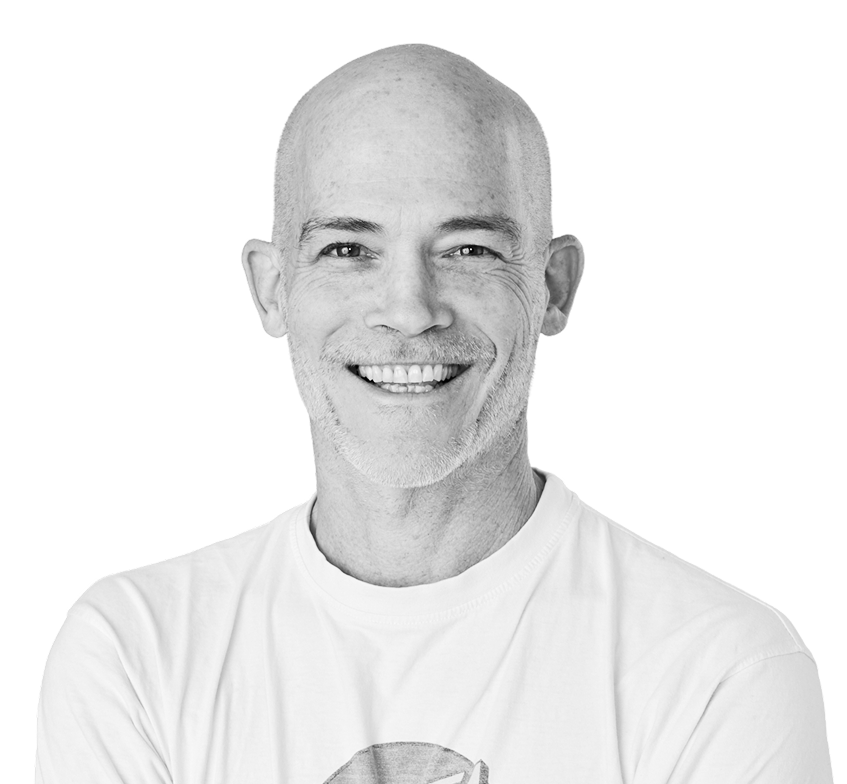
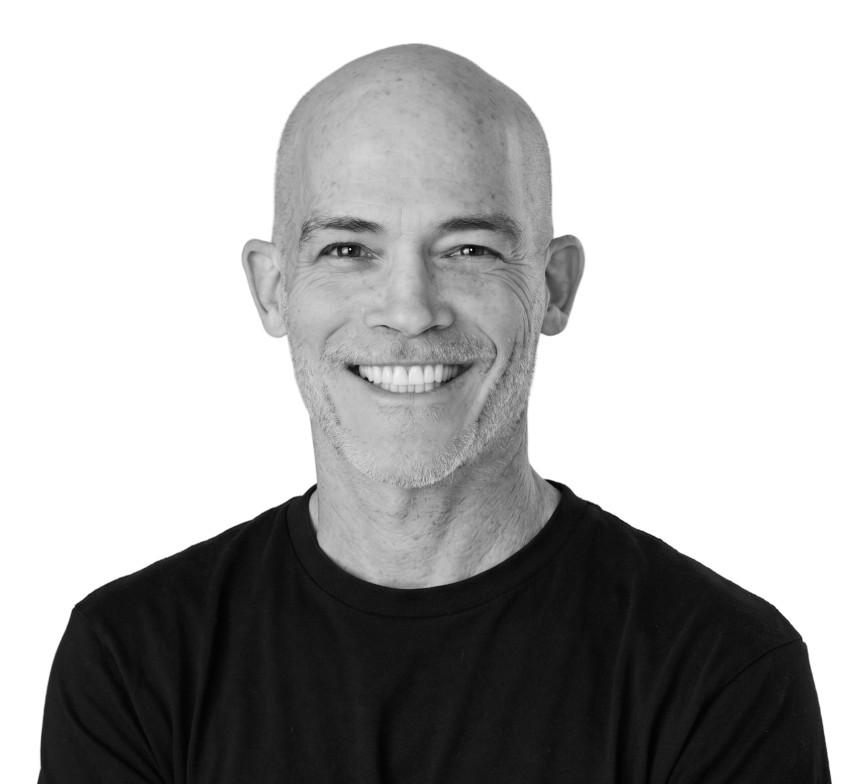
hero: add drop shadow to portrait (20px 20px 36px rgba(0,0,0,.10))

diff --git a/src/components/home/Hero.tsx b/src/components/home/Hero.tsx
@@ -109,7 +109,12 @@ export default function Hero() {
 
           {/* Portrait — native size, defines the section height */}
           <div className="pointer-events-none hidden md:block self-start shrink-0 z-10">
-            <img src={img} alt={header.name} data-parallax="0.12" />
+            <img
+              src={img}
+              alt={header.name}
+              data-parallax="0.12"
+              className="shadow-[20px_20px_36px_0_rgba(0,0,0,0.10)]"
+            />
           </div>
         </div>
 
